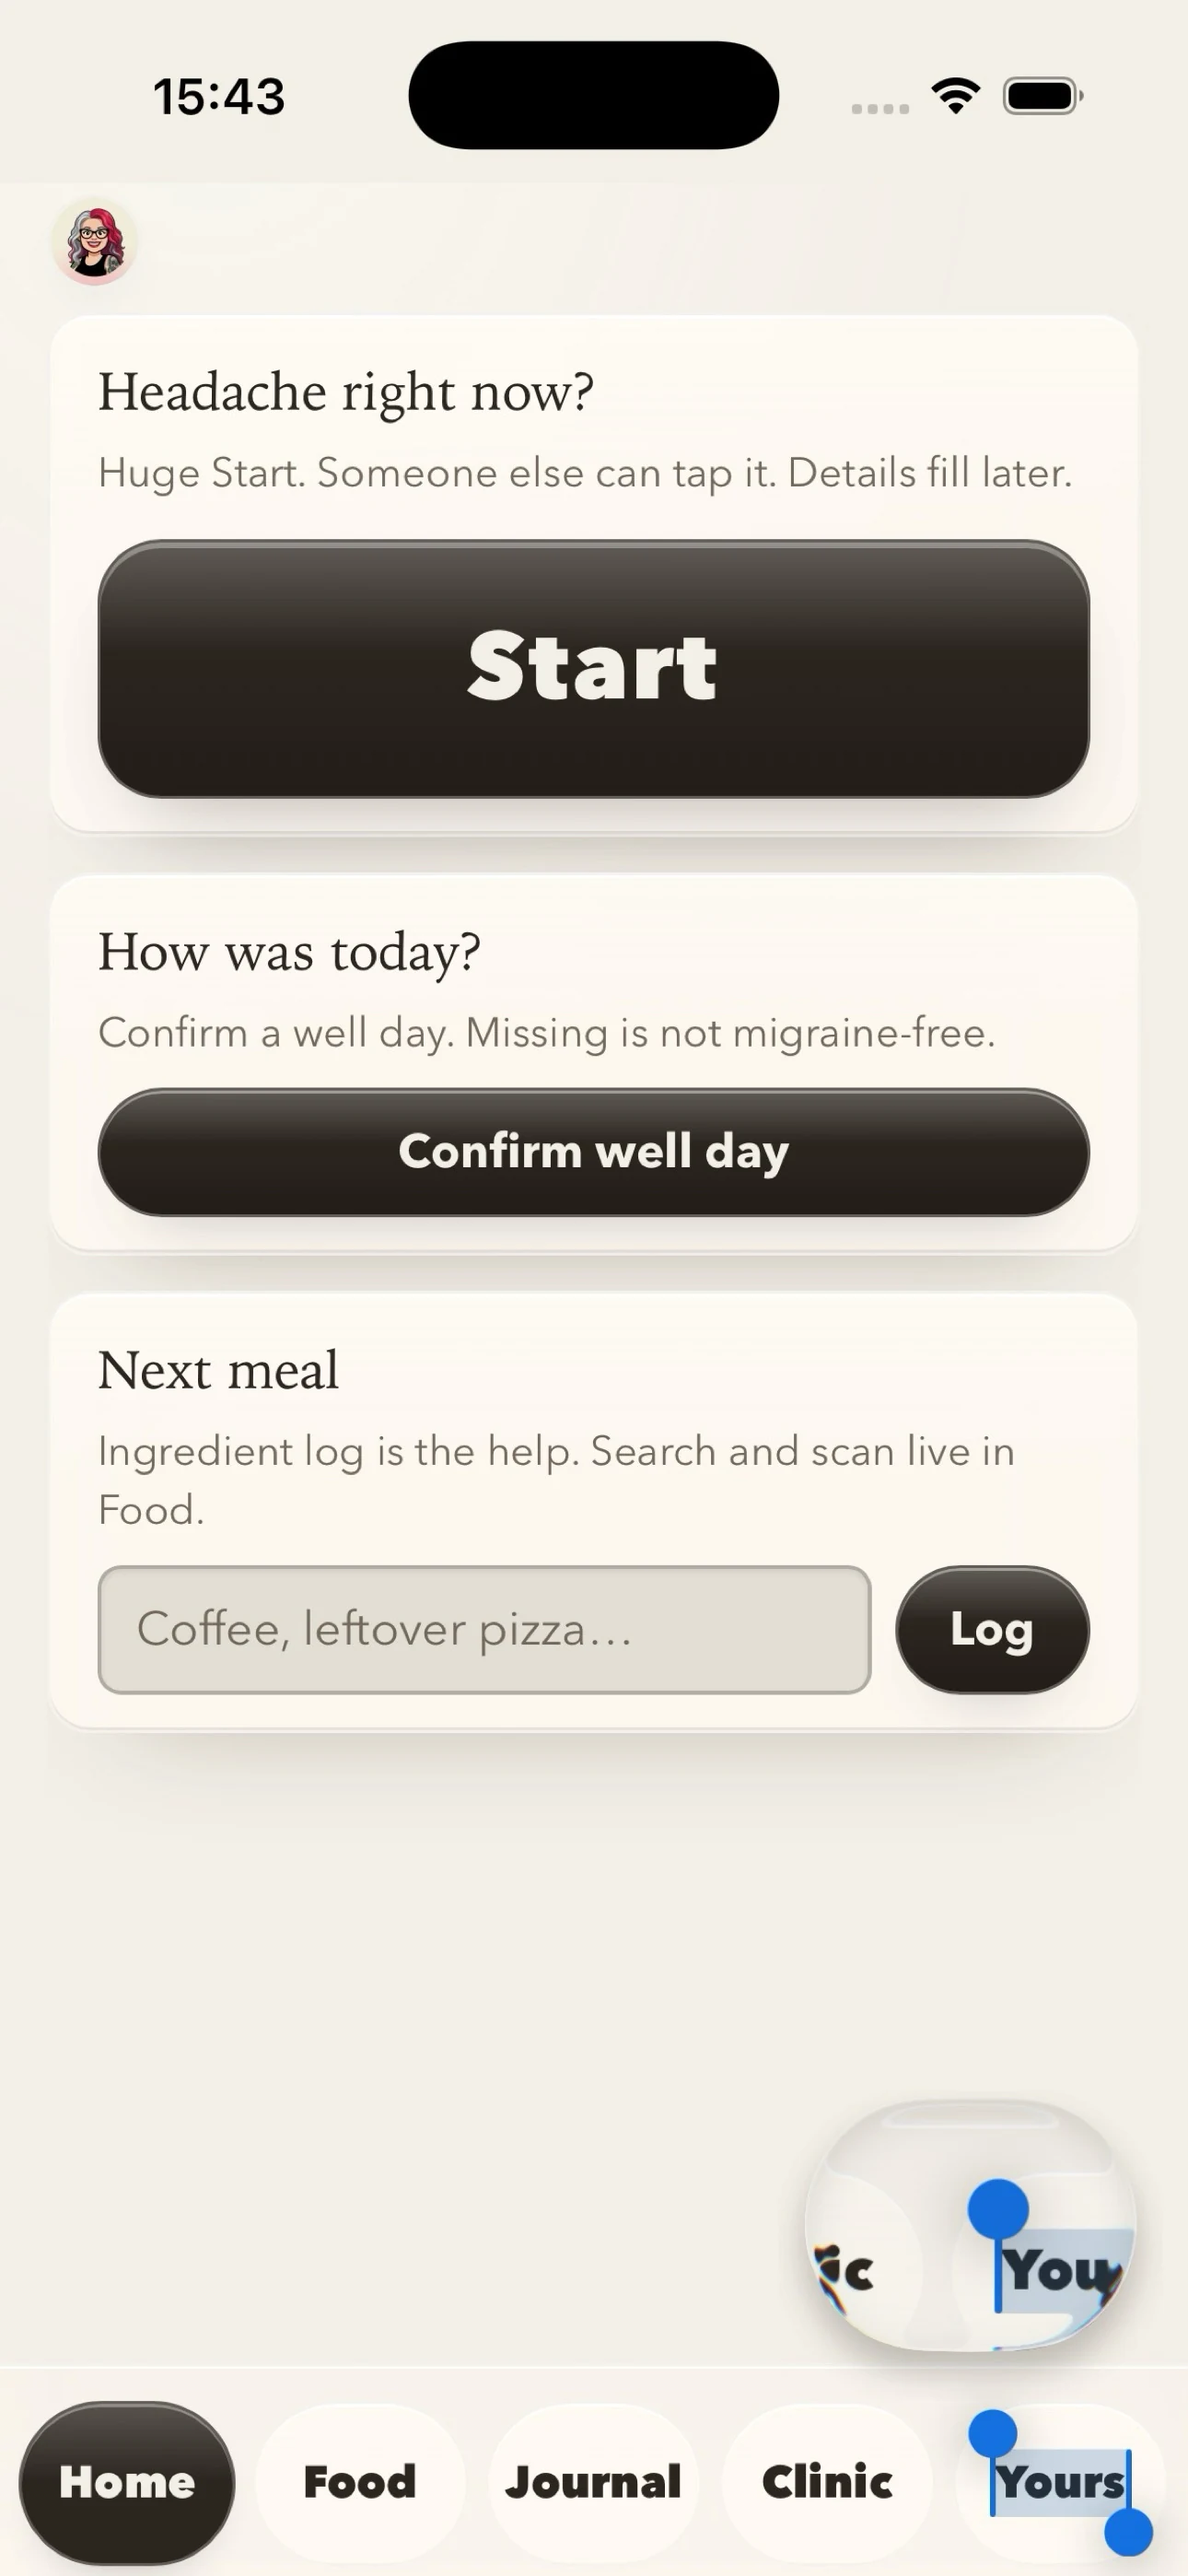
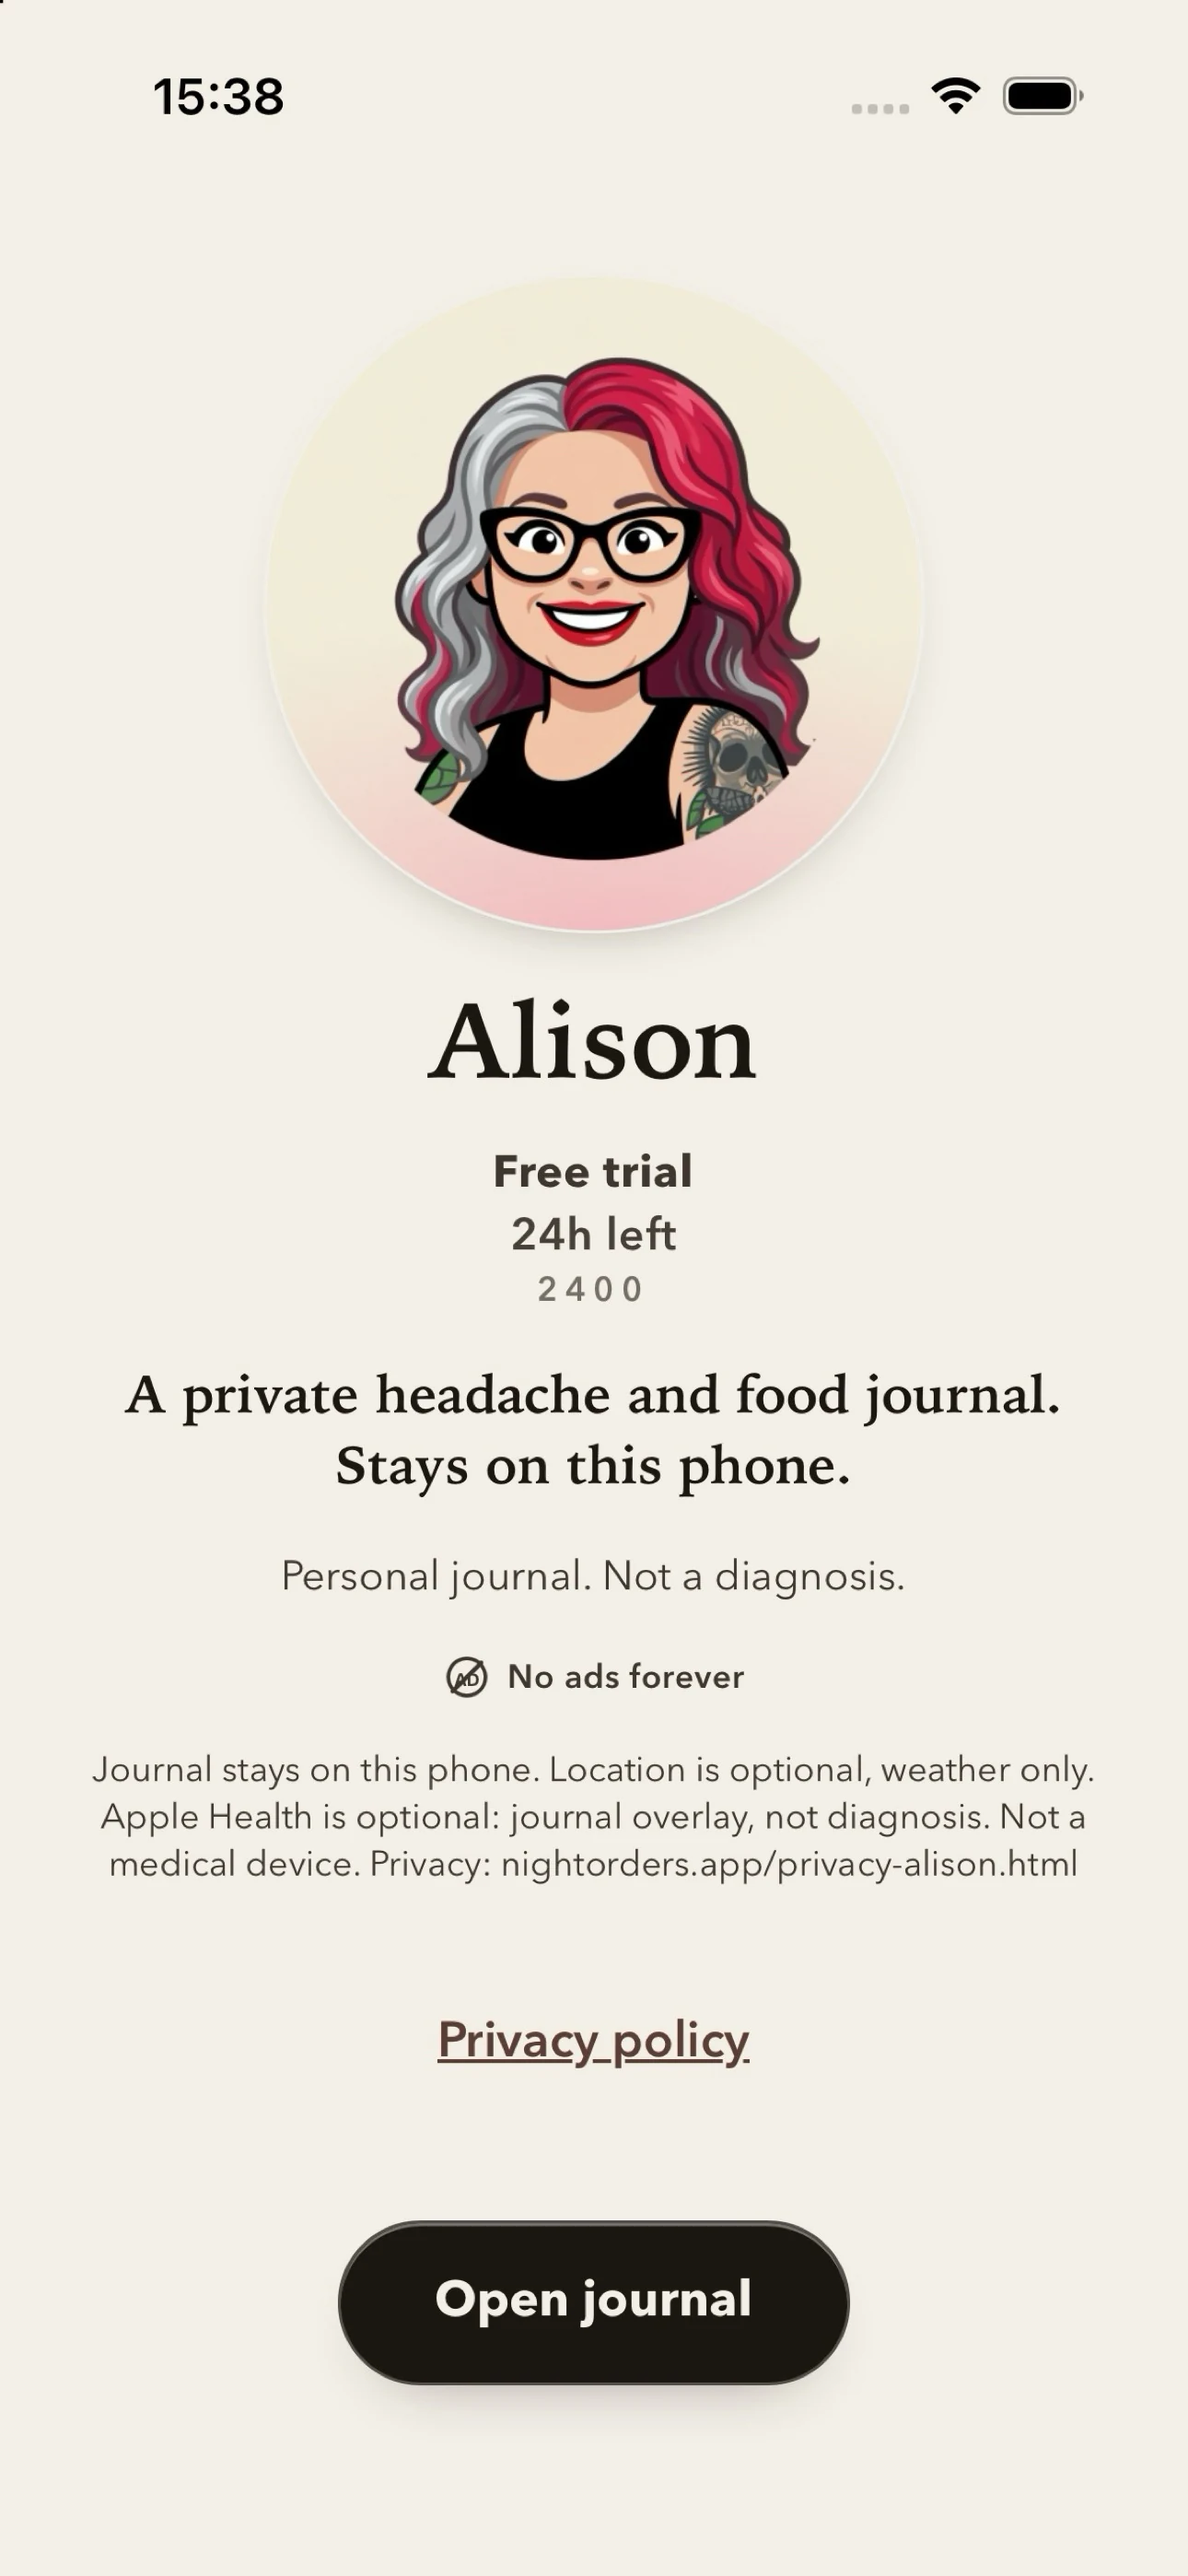
site: Alison gallery-02 remill + phone dock hide (Exact t8049u)

diff --git a/index.html b/index.html
@@ -136,6 +136,10 @@
       color: var(--mute); cursor: pointer; font: inherit;
     }
     .page-home .scroll-cue[hidden] { display: none; }
+    /* DEFECT remill t8034u follow-on: Top/Bot dock pills read as nav on phone (Pat shot). Hide dock-control ≤51.99rem; mast-grip drag remains. */
+    @media (max-width: 51.99rem) {
+      .dock-control { display: none !important; }
+    }
   </style>
   <script>
 (function () {
@@ -219,7 +223,7 @@
 
       <div class="tabpanel" role="tabpanel" id="panel-alison" aria-labelledby="tab-alison">
         <figure class="panel-art">
-          <img src="media/alison/gallery-02.webp" width="390" height="844" alt="Alison — Yours" loading="lazy" decoding="async" />
+          <img src="media/alison/gallery-02.webp" width="390" height="844" alt="Alison — opening" loading="lazy" decoding="async" />
         </figure>
         <div class="panel-copy">
           <p>Alison, Stellar Anvil, and Pack Run are on the App Store.</p>
